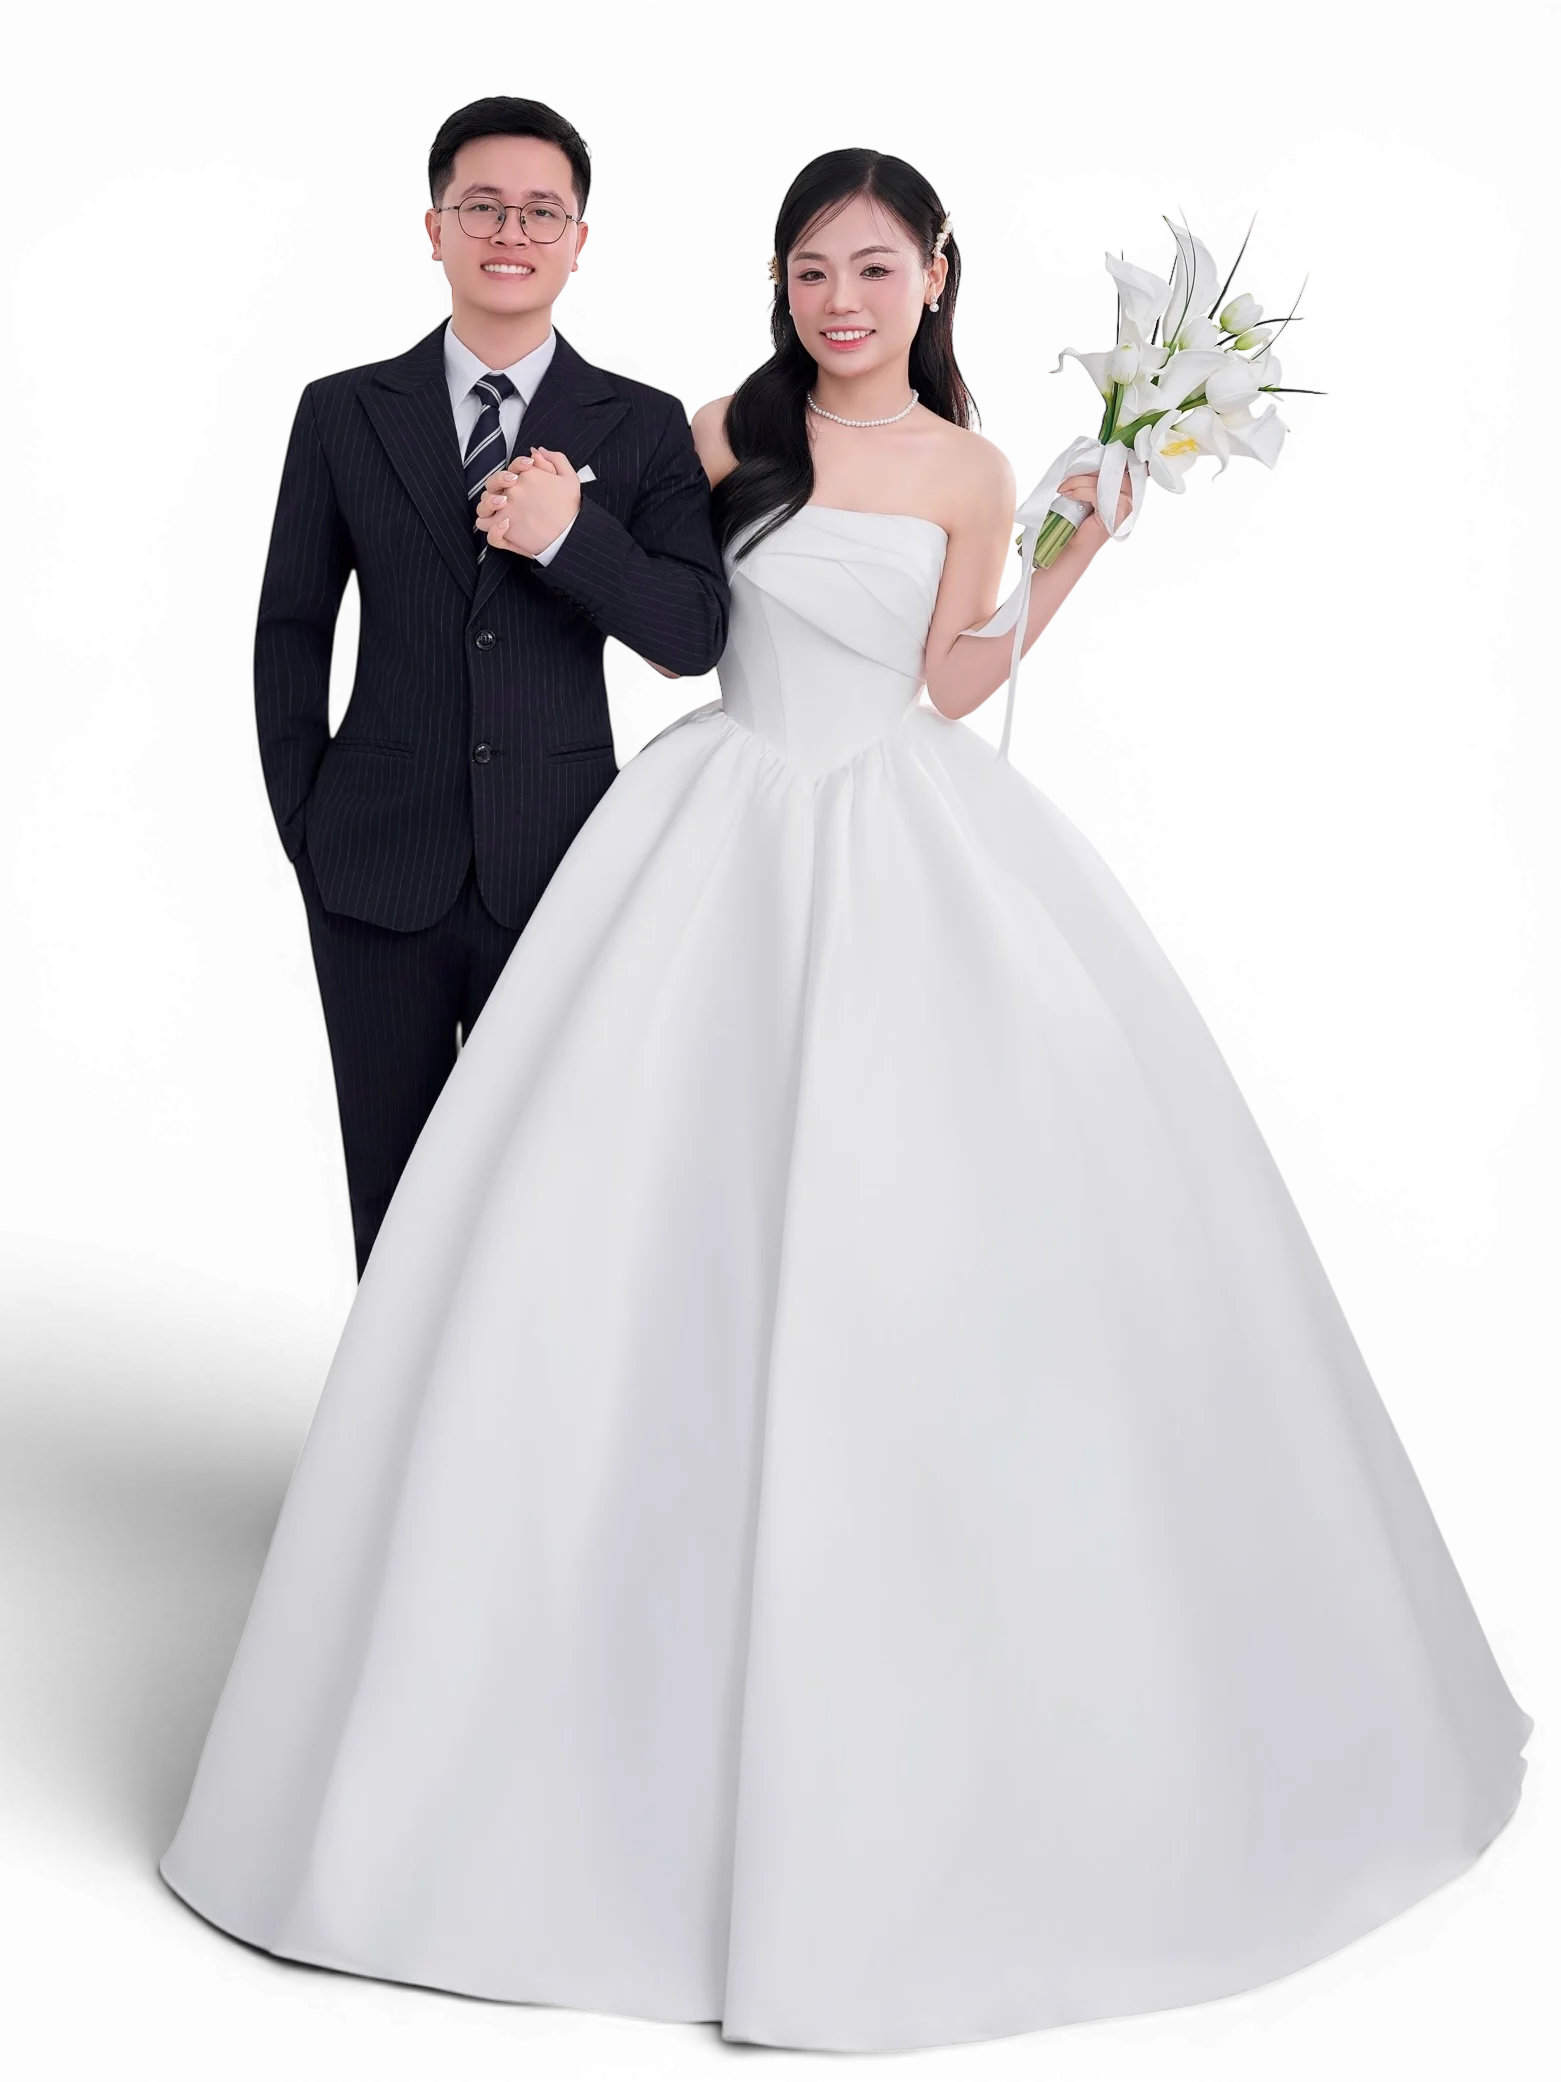
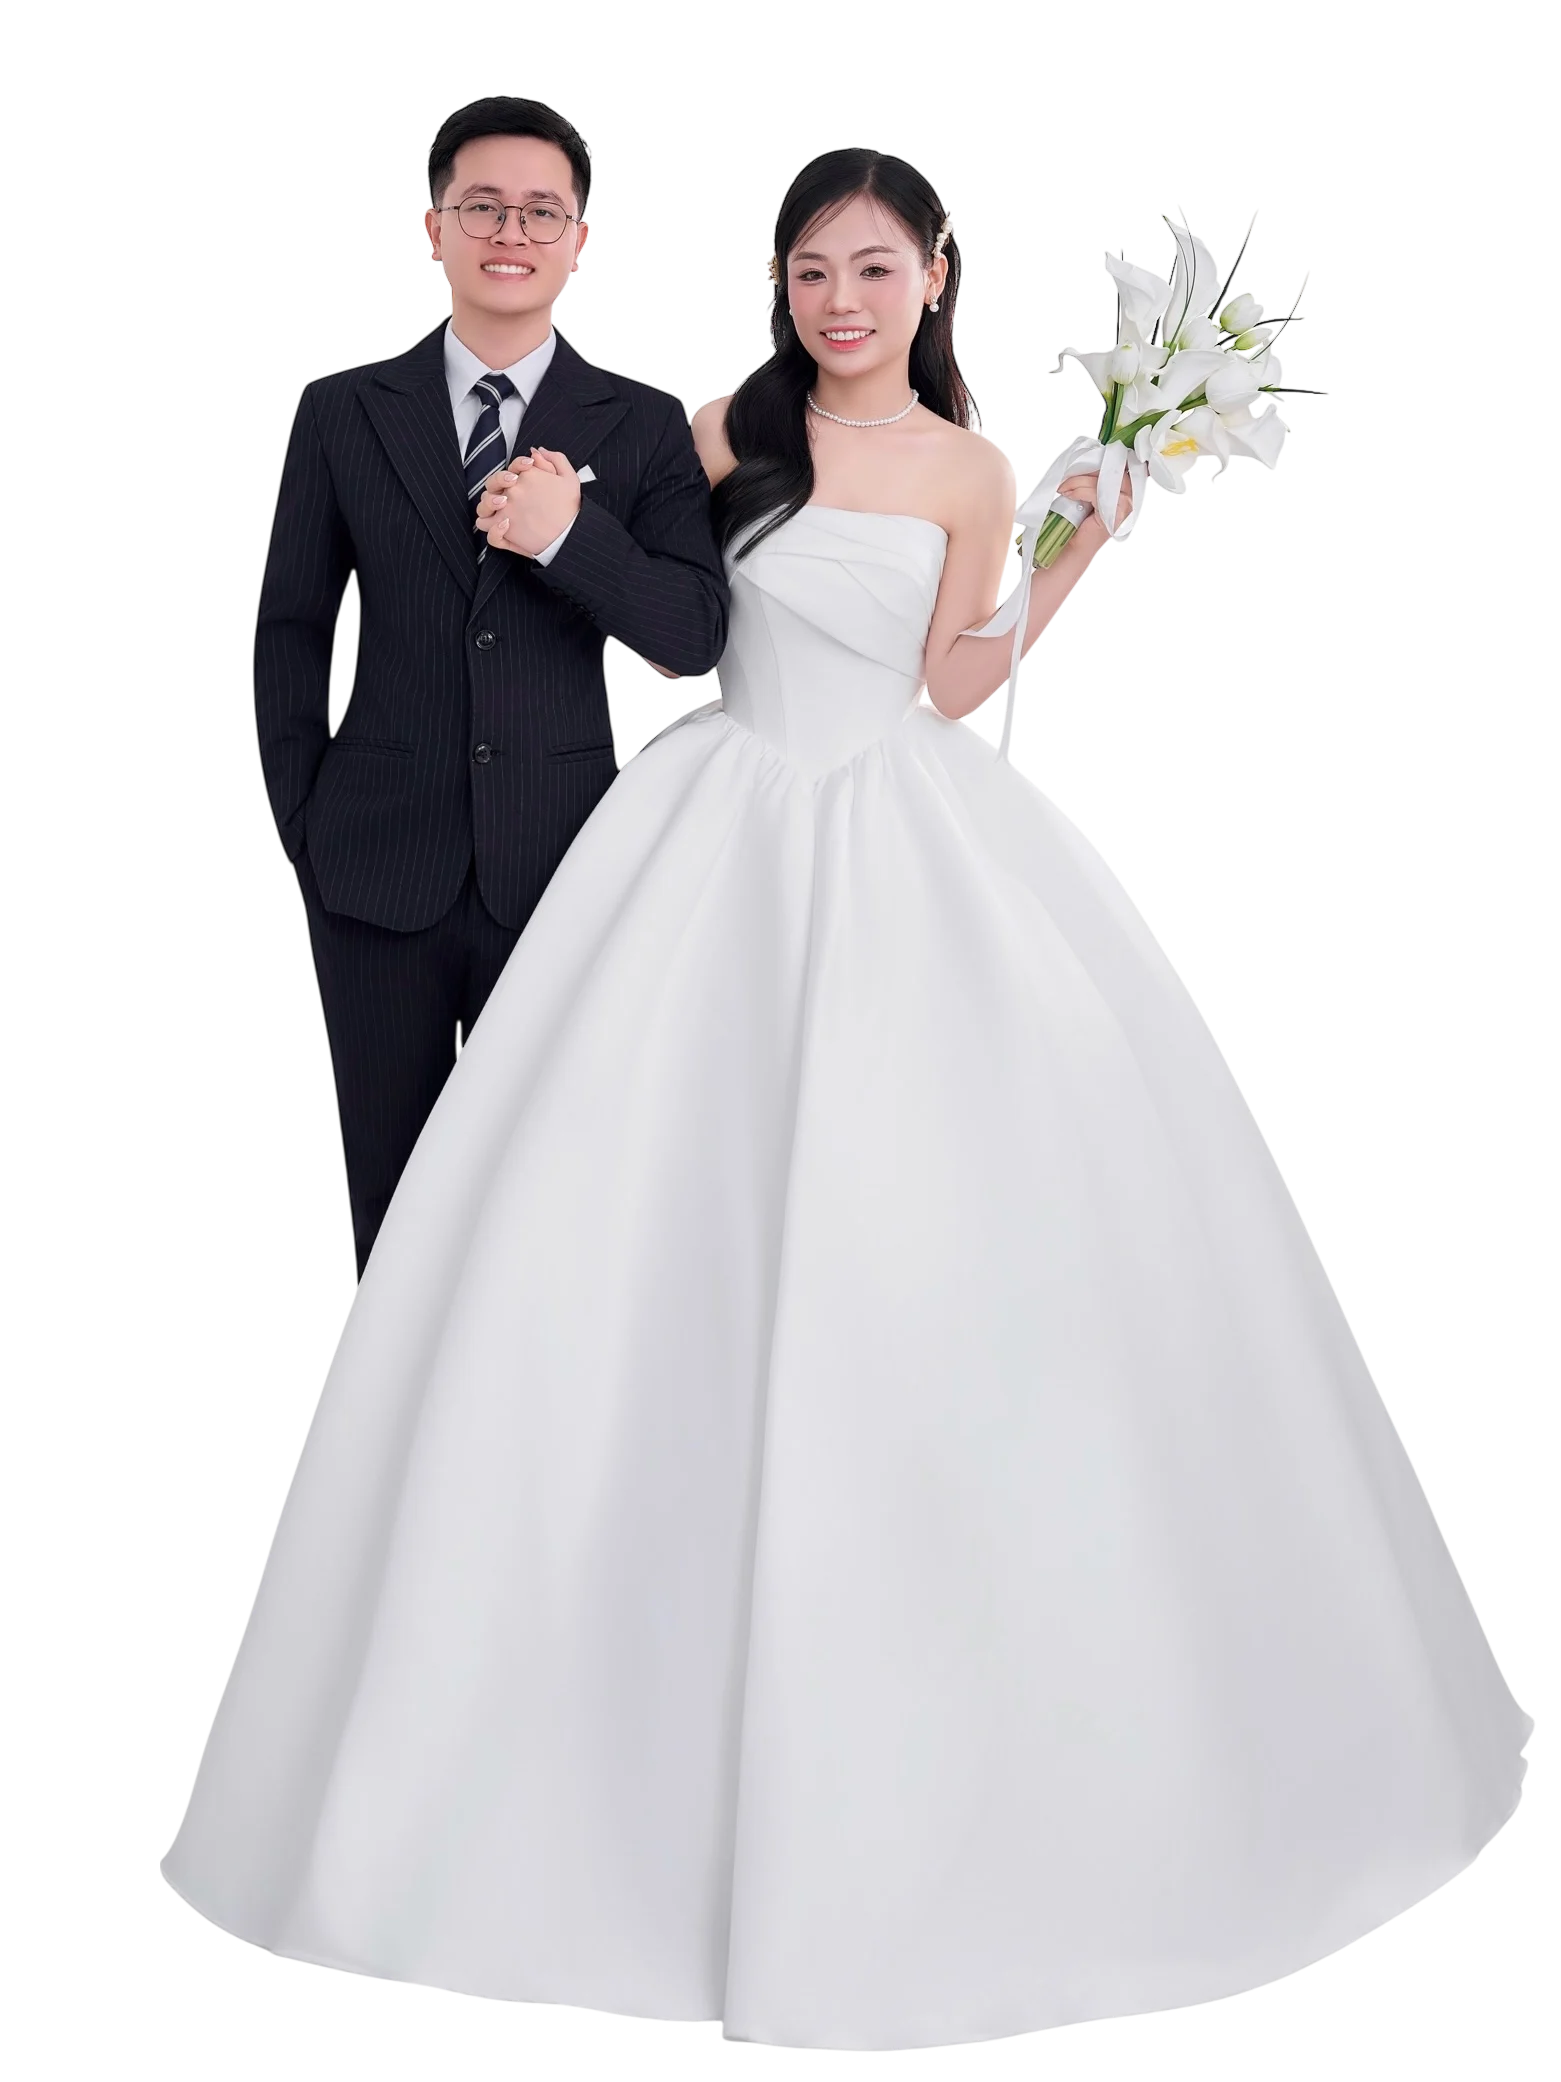
fix: refine content, translations, and update assets (#20)
* fix(hero): adjust padding and update image source in hero section

fix(event): change grid alignment in event details section

fix(i18n): correct lunar date formatting in Vietnamese translations

chore: update hero portrait image

* fix(i18n): update sectionEyebrow to Vietnamese translation for wedding

* fix(layout): replace Be_Vietnam_Pro with Google_Sans for improved font rendering

* fix(i18n): update Vietnamese translations for wedding invitation details

Refine descriptions, keywords, and event labels for clarity and consistency.

* chore: remove redundant code blocks from changes section

Cleaned up empty code change entries to improve clarity.

* fix(layout): replace Google_Sans with Be_Vietnam_Pro for improved font consistency

---------

Changed region(s): [[0.0, 0.6244, 0.2152, 0.9366], [0.1537, 0.9366, 0.3382, 0.9678], [0.4305, 0.9678, 0.5535, 0.999]]

diff --git a/components/event/gift-registry-section.tsx b/components/event/gift-registry-section.tsx
@@ -62,12 +62,12 @@ const AccountCard = ({ data }: { data: AccountData }) => {
   return (
     <div className='flex flex-col items-center rounded-3xl border border-gold/20 bg-white/60 p-8 shadow-[0_0_40px_rgba(212,175,55,0.05)] backdrop-blur-md'>
       <h4 className='mb-6 font-serif text-2xl text-wine'>{data.title}</h4>
-      <div className='relative mb-8 aspect-square w-52 overflow-hidden rounded-2xl border border-gold/20 bg-white shadow-md'>
+      <div className='relative mb-8 aspect-4/5 w-52 overflow-hidden rounded-2xl border border-gold/20 bg-white shadow-md'>
         {/* Replace src with real QR image path when available */}
         {/* eslint-disable-next-line @next/next/no-img-element */}
         <img
           alt={`${s.qrCodeAlt} - ${data.bankName} - ${data.accountName}`}
-          className='h-full w-full object-cover'
+          className='h-full w-full object-contain'
           src={data.qrImage}
         />
       </div>
@@ -75,7 +75,7 @@ const AccountCard = ({ data }: { data: AccountData }) => {
       <div className='w-full space-y-1.5 text-center'>
         <p className='font-medium text-text-primary'>{data.bankName}</p>
         <p className='text-sm text-text-secondary'>{data.accountName}</p>
-        <div className='mt-4 flex items-center justify-center gap-3'>
+        <div className='mt-4 ml-4 flex items-center justify-center gap-1'>
           <p className='font-mono text-xl tracking-wider text-wine'>
             {data.accountNumber}
           </p>

diff --git a/components/hero/hero-section.tsx b/components/hero/hero-section.tsx
@@ -7,6 +7,7 @@ import { GuestPersonalization } from '@/components/guest'
 import { SectionWrapper } from '@/components/shared'
 import type { GuestData } from '@/lib/guests'
 import { strings } from '@/lib/i18n'
+import heroPortrait from '@/public/images/hero-portrait.webp'
 
 const { hero: s } = strings
 
@@ -97,9 +98,9 @@ export const HeroSection = ({ guest }: HeroSectionProps) => {
               fill
               priority
               alt='Tùng & Vân — Ảnh cưới'
-              className='object-contain pb-4 transition-transform duration-700'
+              className='object-contain p-10 pb-4 transition-transform duration-700'
               sizes='(max-width: 768px) 100vw, 40vw'
-              src='/images/hero-portrait.webp'
+              src={heroPortrait}
             />
             {/* Subtle color-correcting overlay to unify the red tones */}
             <div className='pointer-events-none absolute inset-0 bg-wine/5 mix-blend-multiply' />

diff --git a/components/event/event-details-section.tsx b/components/event/event-details-section.tsx
@@ -105,7 +105,7 @@ export const EventDetailsSection = () => {
             </p>
           </div>
 
-          <div className='grid items-center gap-12 lg:grid-cols-3'>
+          <div className='grid items-start gap-12 lg:grid-cols-3'>
             {/* Groom's side */}
             <div className='order-2 space-y-8 text-center lg:order-1 lg:text-right'>
               <h3 className='inline-block border-b border-wine/20 pb-4 font-serif text-2xl text-wine lg:block'>
